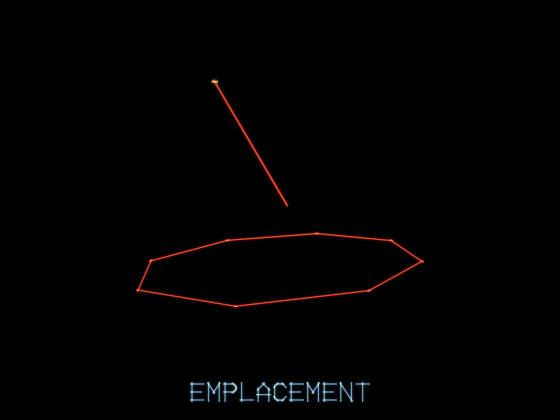
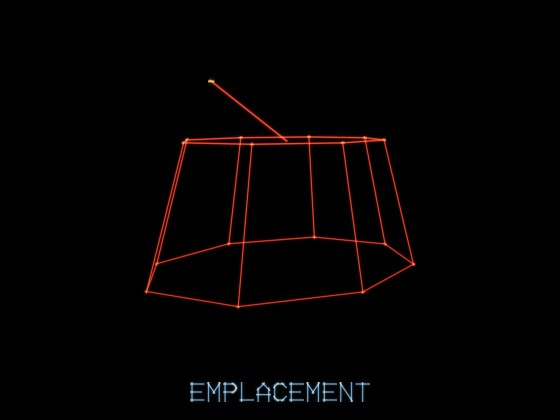
fix: turrets with a side to be seen from, and a check that the docs are true
A surface turret was one ring at a single height -- a horizontal disc with a
barrel through it and no vertical extent at all. You fight these from the rim,
looking along the surface, which is precisely the angle at which a horizontal
disc is a line: they read as a scratch of orange, and shooting one meant aiming
at something with no silhouette. They are drums now. A base ring on the rock, a
narrower top ring lifted nine tenths of the radius above it, posts joining the
two, and the barrel out of the top rather than out of the middle of a plate.
Emplacements get the same, being the same shape one size up.

The bestiary already called it "a hexagonal drum". That was aspirational; the
code has caught up with the words rather than the other way round.

A turret costs 19 lines instead of 7. REACTOR's eighty would add a thousand
lines if every one were on screen at once, which never happens -- they are drawn
inside the draw distance and mostly hidden below the rim.

tools/doccheck.mjs is the other half of tools/portraits.mjs. The portraits
cannot go stale because they are drawn by the game's own code; the numbers could
and did. It reads the constants out of the source and checks the bestiary still
quotes them, that every enemy's hit points match what the generator builds, and
that every obstacle kind and spec field is written down. It exits non-zero when
they are not.

It immediately earned itself: `snaking` was undocumented. The edit that was
[…]

Changed region(s): [[0.2429, 0.2167, 0.7589, 0.7429], [0.4857, 0.4333, 0.5161, 0.4952], [0.3643, 0.1857, 0.3946, 0.2167]]

diff --git a/src/entities.js b/src/entities.js
@@ -369,18 +369,32 @@ export function drawEnemies(rd, track, enemies, camT, far, time) {
     const A = 0.1 + 0.9 * (e.los === undefined ? 1 : e.los);
 
     if (e.kind === 'turret' || e.kind === 'emplacement') {
+      // A drum standing on the rock, not a plate lying on it.
+      //
+      // This used to be one ring at a single height, which is a horizontal disc
+      // -- and you fight these from the rim, looking along the surface, where a
+      // horizontal disc is a line. They read as a scratch of orange with a
+      // barrel on it. A base ring, a narrower top ring lifted off the rock, and
+      // posts between them give the thing a side to be seen from.
       const R = e.kind === 'emplacement' ? 17 : 9;
       const n = e.kind === 'emplacement' ? 8 : 6;
+      const H = R * 0.9;
+      const rim = (a, r, y, out) =>
+        track.localToWorld(e.t + Math.sin(a) * r * 0.6, e.x + Math.cos(a) * r, y, out);
       for (let k = 0; k < n; k++) {
         const a0 = (k / n) * TAU + e.spin, a1 = ((k + 1) / n) * TAU + e.spin;
-        track.localToWorld(e.t + Math.sin(a0) * R * 0.6, e.x + Math.cos(a0) * R, e.y, p);
-        track.localToWorld(e.t + Math.sin(a1) * R * 0.6, e.x + Math.cos(a1) * R, e.y, q);
-        rd.line3(p[0], p[1], p[2], q[0], q[1], q[2], 1.2, col[0], col[1], col[2], A);
+        rim(a0, R, e.y, p); rim(a1, R, e.y, q);
+        rd.line3(p[0], p[1], p[2], q[0], q[1], q[2], 1.2, col[0], col[1], col[2], A * 0.75);
+        rim(a0, R * 0.74, e.y + H, p); rim(a1, R * 0.74, e.y + H, q);
+        rd.line3(p[0], p[1], p[2], q[0], q[1], q[2], 1.3, col[0], col[1], col[2], A);
+        rim(a0, R, e.y, p); rim(a0, R * 0.74, e.y + H, q);
+        rd.line3(p[0], p[1], p[2], q[0], q[1], q[2], 1.1, col[0], col[1], col[2], A * 0.85);
       }
-      // Barrel, swung toward the aim angle it last computed.
-      track.localToWorld(e.t, e.x, e.y + R * 0.4, p);
-      track.localToWorld(e.t + Math.cos(e.aim) * R * 1.1,
-        e.x + Math.sin(e.aim) * R * 1.1, e.y + R * 1.3, q);
+      // Barrel, swung toward the aim angle it last computed, out of the top of
+      // the drum rather than out of the middle of a disc.
+      track.localToWorld(e.t, e.x, e.y + H, p);
+      track.localToWorld(e.t + Math.cos(e.aim) * R * 1.2,
+        e.x + Math.sin(e.aim) * R * 1.2, e.y + H + R * 0.5, q);
       rd.line3(p[0], p[1], p[2], q[0], q[1], q[2], 1.6, col[0], col[1], col[2], A);
       rd.dot3(q[0], q[1], q[2], 2, 1, 0.8, 0.4, (0.8 + 0.2 * Math.sin(time * 9)) * A);
     } else if (e.kind === 'wallgun') {

diff --git a/dist/vectrench.html b/dist/vectrench.html
@@ -3825,18 +3825,32 @@ function drawEnemies(rd, track, enemies, camT, far, time) {
     const A = 0.1 + 0.9 * (e.los === undefined ? 1 : e.los);
 
     if (e.kind === 'turret' || e.kind === 'emplacement') {
+      // A drum standing on the rock, not a plate lying on it.
+      //
+      // This used to be one ring at a single height, which is a horizontal disc
+      // -- and you fight these from the rim, looking along the surface, where a
+      // horizontal disc is a line. They read as a scratch of orange with a
+      // barrel on it. A base ring, a narrower top ring lifted off the rock, and
+      // posts between them give the thing a side to be seen from.
       const R = e.kind === 'emplacement' ? 17 : 9;
       const n = e.kind === 'emplacement' ? 8 : 6;
+      const H = R * 0.9;
+      const rim = (a, r, y, out) =>
+        track.localToWorld(e.t + Math.sin(a) * r * 0.6, e.x + Math.cos(a) * r, y, out);
       for (let k = 0; k < n; k++) {
         const a0 = (k / n) * TAU + e.spin, a1 = ((k + 1) / n) * TAU + e.spin;
-        track.localToWorld(e.t + Math.sin(a0) * R * 0.6, e.x + Math.cos(a0) * R, e.y, p);
-        track.localToWorld(e.t + Math.sin(a1) * R * 0.6, e.x + Math.cos(a1) * R, e.y, q);
-        rd.line3(p[0], p[1], p[2], q[0], q[1], q[2], 1.2, col[0], col[1], col[2], A);
+        rim(a0, R, e.y, p); rim(a1, R, e.y, q);
+        rd.line3(p[0], p[1], p[2], q[0], q[1], q[2], 1.2, col[0], col[1], col[2], A * 0.75);
+        rim(a0, R * 0.74, e.y + H, p); rim(a1, R * 0.74, e.y + H, q);
+        rd.line3(p[0], p[1], p[2], q[0], q[1], q[2], 1.3, col[0], col[1], col[2], A);
+        rim(a0, R, e.y, p); rim(a0, R * 0.74, e.y + H, q);
+        rd.line3(p[0], p[1], p[2], q[0], q[1], q[2], 1.1, col[0], col[1], col[2], A * 0.85);
       }
-      // Barrel, swung toward the aim angle it last computed.
-      track.localToWorld(e.t, e.x, e.y + R * 0.4, p);
-      track.localToWorld(e.t + Math.cos(e.aim) * R * 1.1,
-        e.x + Math.sin(e.aim) * R * 1.1, e.y + R * 1.3, q);
+      // Barrel, swung toward the aim angle it last computed, out of the top of
+      // the drum rather than out of the middle of a disc.
+      track.localToWorld(e.t, e.x, e.y + H, p);
+      track.localToWorld(e.t + Math.cos(e.aim) * R * 1.2,
+        e.x + Math.sin(e.aim) * R * 1.2, e.y + H + R * 0.5, q);
       rd.line3(p[0], p[1], p[2], q[0], q[1], q[2], 1.6, col[0], col[1], col[2], A);
       rd.dot3(q[0], q[1], q[2], 2, 1, 0.8, 0.4, (0.8 + 0.2 * Math.sin(time * 9)) * A);
     } else if (e.kind === 'wallgun') {

diff --git a/docs/LEVELS.md b/docs/LEVELS.md
@@ -76,7 +76,8 @@ Each section:
 | `length` | 400–6000 | 2000 | Track units this section occupies |
 | `width` | 26–150 | 62 | Trench **half**-width. 40 is tight; 110 is a plaza |
 | `depth` | 50–240 | 118 | Rim height above the floor — how far the climb is |
-| `curviness` | 0–1 | 0.4 | Lateral turning |
+| `curviness` | 0–1 | 0.4 | How far the canyon wanders off its line |
+| `snaking` | 0–1 | 0 | How *often* it turns, as opposed to how far. At 0 the steering is noise and the canyon drifts; turn it up and it bends about its own line instead, tighter and harder as it rises — a river rather than a road. Maxing `curviness` alone gives the same number of bends, only wider; this is the one that makes switchbacks. Sharp bends cost sightline, so a snaking canyon wants to be a wide one |
 | `hilliness` | 0–1 | 0.35 | Vertical relief of the floor |
 | `roughness` | 0–1 | 0.5 | Wall detail. Cosmetic; costs no fairness |
 | `obstacles` | 0–1 | 0.4 | Rate, not a count — see below |
@@ -86,7 +87,7 @@ Each section:
 | `batteries` | 0–1 | 0.28 | Surface missile racks. Density decides how many; the section's own value also decides how big, so a heavy section is where the twelve-tube ones appear |
 | `wallguns` | 0–1 | 0.32 | Guns on the trench walls |
 | `drones` | 0–1 | 0.3 | Fighter wave rate |
-| `seals` | 0–6 | 0 | Bulkheads that force you over the rim |
+| `seals` | 0–6 | 0 | Bulkheads that force you over the rim. Authored by count, not by `kinds` — there is no `seal` you can put in a kinds list |
 | `panels` | 0–4 | 2 | Shootable control panels per bulkhead. 0 welds it shut |
 | `ringrate` | 0.06–1 | 0.2 | Seconds between one tentacle of a `ring` firing and the next. Lower is a faster sweep. The number standing at once does not change with it — four, always — so this slows the wall going round rather than thinning it |
 | `slotgap` | 2–14 | 4 | Room each side of the ship in a `slot`, in units. The slit is built from the ship's own footprint plus this, so it is authored in the thing that matters. **Above about 4.5 an upright slit stops asking for the roll**: the ship is 14 wide flying level and 5 on edge, so a slit wide enough to give more room than that is a slit the level ship fits through. 4 is the widest that keeps a slot a slot |

diff --git a/docs/BESTIARY.md b/docs/BESTIARY.md
@@ -114,6 +114,7 @@ trench is cover, and the moment you climb out of it the skyline answers.
 | --- | --- | --- |
 | `hp` | 3 | Three cannon hits |
 | `points` | 250 | |
+| shape | 6-sided drum, R 9, 8 tall | It has *height*: drawn as one flat ring it was a horizontal disc, and you fight these from the rim looking along the surface, where a horizontal disc is a line |
 | `cool` | `0.6 + rand()` | Initial delay, so a row of them staggers |
 | reload | 0.85 s × 0.75–1.35 | Jittered per shot |
 | bolt speed | 520 u/s | Leads your ship by 0.85 of its velocity |
@@ -273,6 +274,7 @@ still only expensive to get wrong.
 | Argument | Value | Meaning |
 | --- | --- | --- |
 | `hp` | 14 | Fourteen cannon hits. One missile, like everything else |
+| shape | 8-sided drum, R 17, 15 tall | |
 | `points` | 900 | |
 | `cool` | 1.2 | |
 | reload | 1.5 s × 0.75–1.35 | |
@@ -478,3 +480,9 @@ places, and nothing else:
 
 Then add it to `SUBJECTS` in [`tools/portraits.mjs`](../tools/portraits.mjs) and
 re-run it, and it has a portrait in here too.
+
+`node tools/doccheck.mjs` reads the constants out of the source and checks this
+file still quotes them, that every enemy's hit points match, and that every
+obstacle kind and spec field is written down somewhere. It exits non-zero when
+they are not, so a number that moves without its documentation is a failure
+rather than something somebody has to spot.

diff --git a/README.md b/README.md
@@ -230,6 +230,7 @@ flyable line exists. Run it over a spread of seeds before changing the generator
 node tools/audit.mjs            # clearability across the prose examples and 60 seeds
 node tools/levels.mjs           # the same proof over each pre-built level, plus 40 reseeds
 node tools/levels.mjs --check   # src/levels.js still matches levels/*.json
+node tools/doccheck.mjs         # the docs still describe the code
 ```
 
 The second one is the gate on a pre-built level. It checks four things and exits
